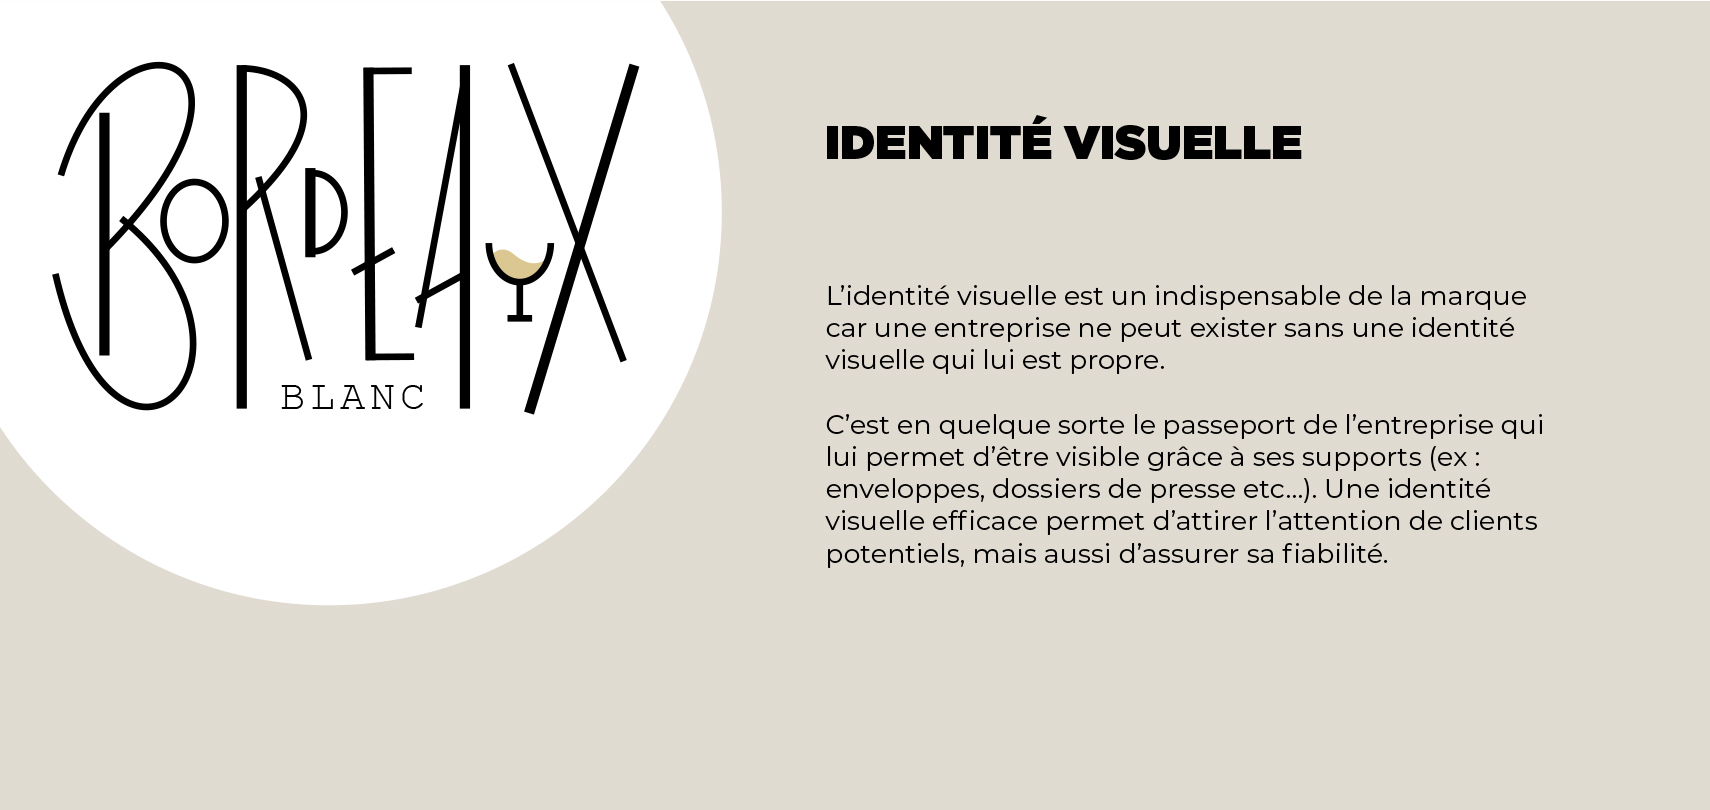
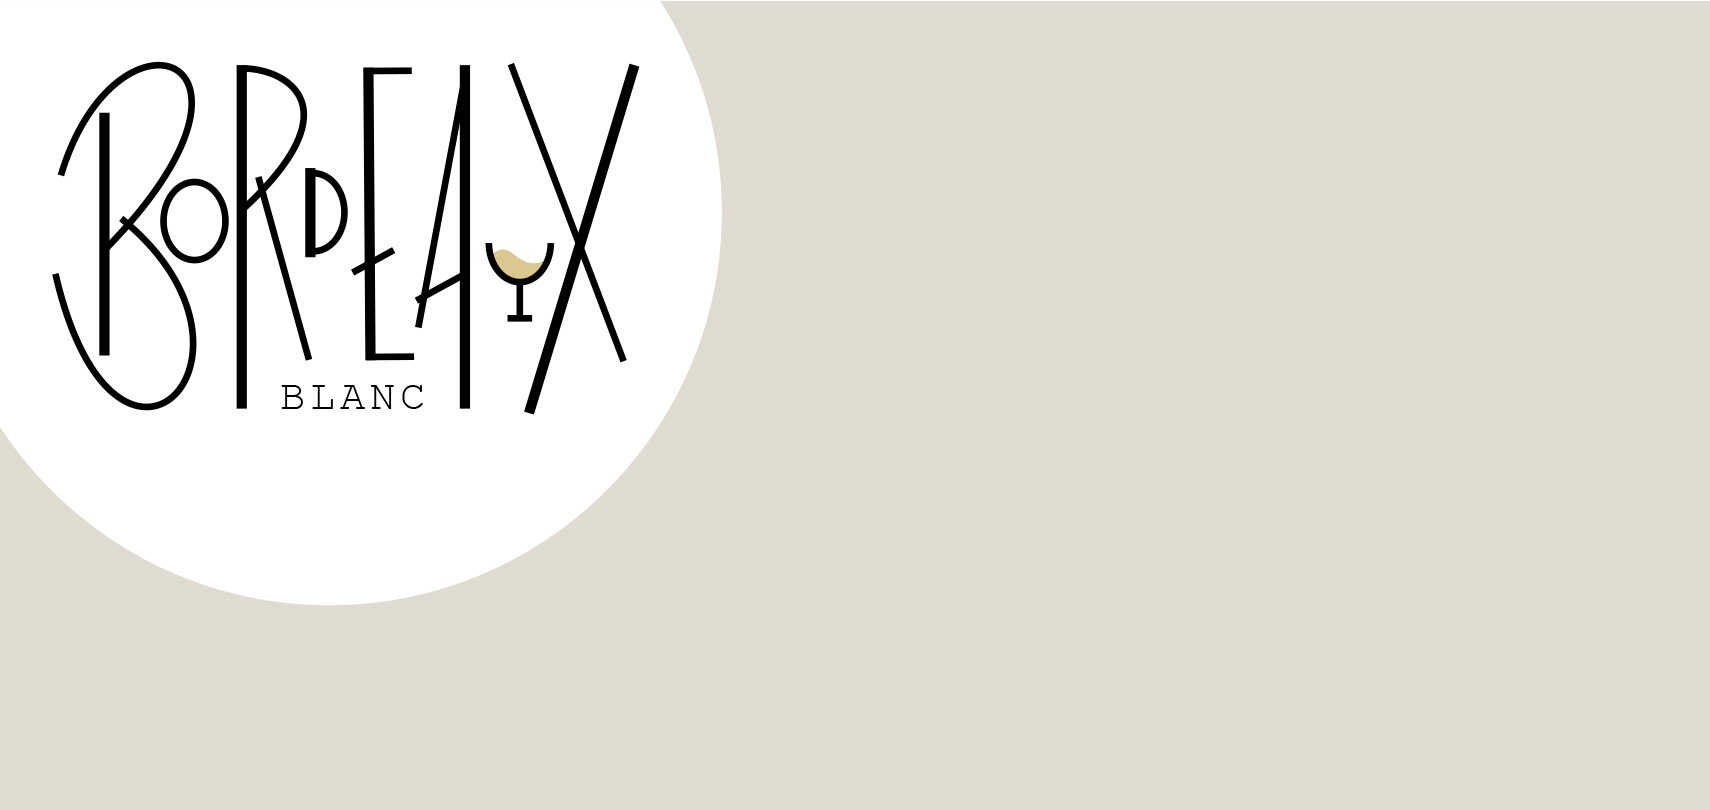
Added "cv" and "portfolio" sections

Changed region(s): [[0.4649, 0.4938, 0.8988, 0.7099], [0.4959, 0.3395, 0.8988, 0.463], [0.4649, 0.1543, 0.7749, 0.216]]

diff --git a/css/typo.css b/css/typo.css
@@ -1,16 +1,16 @@
 @import url('https://fonts.googleapis.com/css?family=Goudy+Bookletter+1911|Montserrat:200,400,700|Zilla+Slab:300,400&display=swap');
 
-/* Polices utilisés dans le header */
+
 @import url('https://fonts.googleapis.com/css?family=Bree+Serif&display=swap');
-/* Polices utilisés dans fable01 */
+
 @import url('https://fonts.googleapis.com/css?family=Lato:400,700|Playfair+Display:900&display=swap');
-/* Polices utilisés dans fable02 */
+
 @import url('https://fonts.googleapis.com/css?family=Raleway|Vast+Shadow&display=swap');
-/* Polices utilisés dans fable03 */
+
 @import url('https://fonts.googleapis.com/css?family=BioRhyme:400,700|Space+Mono:400,400i&display=swap');
-/* Polices utilisés dans fable04 */
+
 @import url('https://fonts.googleapis.com/css?family=Fascinate+Inline|Righteous&display=swap');
-/* Polices utilisés dans footer sont les mêmes que dans header */
+
 
 .header-content {
   font-family: 'Zilla Slab', serif;
@@ -26,86 +26,69 @@ header p {
   font-size: 2.25em;
 }
 
-/* Styles partagés par tous les éléments ayant la même class */
 
-.fable-moral {
-  font-size: 3.052em;
-  margin: 2.75rem 0 1rem;
-}
 
-/* Styles utilisés dans fable01 */
-
-#fable01 h2 {
+#identitevisuelle h2 {
   font-size: 3.052em;
   margin: 2.75rem 0 2.75rem 0;
   font-family: 'Montserrat', serif;
   font-weight: 800;
   line-height: 1.15;
-  text-align: right;
-  color: white;
+  text-align: center;
+  color: black;
   padding-right: 30%;
   padding-top: 10%;
 }
 
-#fable01 p {
+#identitevisuelle p {
     font-size: 15px;
     font-family: 'Montserrat', serif;
-     color: white;
+    color: black;
+    padding-top: 10%
 }
 
-#fable01 .fable-moral {
-    font-family: 'Montserrat', serif;
-    font-size: 25px;
-    text-align: center;
-    font-weight: 800;
-    color : black;
-}
 
-/* Styles utilisés dans fable02 */
 
-#fable02 {
-  font-family: 'Raleway', sans-serif;
-  text-align: center;
-}
-
-#fable02 h2 {
+#packaging h2 {
   font-size: 3.052em;
   margin: 2.75rem 0 2.75rem 0;
   font-family: 'Montserrat', serif;
   font-weight: 800;
   line-height: 1.15;
   text-align: center;
-  color: #ffff
+  color: black;
+  padding-right: 30%;
+  padding-top: 10%;
 }
 
-#fable02 .fable-moral {
+#packaging p {
+    font-size: 15px;
     font-family: 'Montserrat', serif;
-    text-align: center;
-    font-weight: 800;
+    color: black;
+    padding-top: 10%
 }
 
-/* Styles utilisés dans fable03 */
 
-#fable03 {
+
+
+
+#illustration h2 {
+  font-size: 3.052em;
+  margin: 2.75rem 0 2.75rem 0;
   font-family: 'Montserrat', serif;
-  padding-top: 5%;
-}
-
-#fable03 h2 {
-  font-family: 'Goudy Bookletter 1911', serif;
-  margin: 0;
-  font-size: 2em;
-  line-height: 0.75;
+  font-weight: 800;
+  line-height: 1.15;
   text-align: center;
-  padding-top: 5%;
-  padding-left: 5%;
+  color: black;
+  padding-right: 70%;
+  padding-top: 10%;
 }
 
-#fable03 .fable-moral {
+#illustration p {
+    font-size: 15px;
     font-family: 'Montserrat', serif;
-    font-size: 1.5em;
-    text-align: center;
-    font-weight: 600;
+    color: black;
+    padding-top: 10%
 }
 
 

diff --git a/css/master.css b/css/master.css
@@ -8,11 +8,11 @@ body {
 }
 
 .header-content {
-  min-height: 45vh;
+  min-height: 41vh;
   padding: 1em;
   background: #efefef
   color: white;
-/* display en flexbox pour centrer */
+
   display: flex;
   justify-content: center;
   align-items: center;
@@ -22,37 +22,30 @@ section {
     min-height: 10vh;
 }
 
-/* Styles utilisés dans fable01 */
+
 
 #identitevisuelle {
-  min-height: 98vh;
+  min-height: 93vh;
   background: url('images/projetportfolio-2.jpg') top center no-repeat;
   overflow: hidden;
   padding-left: 50%;
 }
 
-#identitevisuelle .main-content {
-  display: flex;
-  align-items: right;
-  padding: 10px 50px 20px;
-}
+
 
 #identitevisuelle .text-content {
-  display : flex;
-  align-items: center;
-  justify-content: center;
-  padding: 10px 50px 20px;
-}
+  padding: 80px;
+  margin-top : 0;
+  margin-right : auto;
+  margin-bottom : 0;
+  margin-left : auto;
 
-#identitevisuelle .fable-moral {
-  display : flex;
-  align-items: center;
-  justify-content: center;
-  padding: 10px 50px 20px;
+  max-width: 620px;
 }
 
 
-/*  max-width: 620px; */
+
+
   flex-basis: 420px;
   flex-grow: 1;
   flex-shrink: 1;
@@ -63,17 +56,16 @@ section {
   border : 4px solid #000;
 }
 
-/* Styles utilisés dans fable02 */
+
 
 #packaging {
-  min-height: 97vh;
+  min-height: 93vh;
   background: #efefef  url('images/projetportfolio-3.jpg') top center no-repeat;
   overflow: hidden;
   padding-left: 50%;
 }
 
 #packaging .text-content {
-  background: rgba(255, 255, 255, 0.5);
   padding: 80px;
   margin-top : 0;
   margin-right : auto;
@@ -83,15 +75,7 @@ section {
   max-width: 620px;
 }
 
-#packaging .fable-moral {
-  display : flex;
-  align-items: center;
-  justify-content: center;
-  padding-bottom: 10%;
-}
 
-
-/* Styles utilisés dans fable03 */
 
 #illustration {
   min-height: 86vh;
@@ -103,14 +87,54 @@ section {
 
 #illustration .main-content {
     max-width: 480px;
-    padding-top: 10%;
+    padding-top: 5%;
+    padding-left: 60%;
 }
+
 
 #illustration p {
   background: #efefef
   color: #fff;
 }
 
+
+#cv {
+  background: url('images/cv-1.jpg')top center no-repeat;
+}
+
+.cv-content {
+  min-height: 200vh;
+  padding: 1em;
+  background: #efefef
+  color: white;
+
+  display: flex;
+  justify-content: center;
+  align-items: center;
+}
+
+section {
+    min-height: 10vh;
+}
+
+#portfolio {
+  background: url('images/cv-2.jpg')top center no-repeat;
+}
+
+.portfolio-content {
+  min-height: 170vh;
+  padding: 1em;
+  background: #efefef
+  color: white;
+
+  display: flex;
+  justify-content: center;
+  align-items: center;
+}
+
+section {
+    min-height: 10vh;
+}
 
 .emphasised {
   font-size: 1.5em;

diff --git a/index.html b/index.html
@@ -8,44 +8,74 @@
   </head>
   <body>
 
-<!-- Header -->
+
 <section id="header">
   <div class="header-content">
 
   </div>
 </section>
 
-<!-- SECTION avec identifiant fable01 -->
+
 <section id="identitevisuelle">
 
 
-  <div class="main-content">
+
     <div class="text-content">
 
+<h2>IDENTITÉ VISUELLE</h2>
+
+<p>L’identité visuelle est un indispensable de la marque car une entreprise ne peut exister sans une identité visuelle qui lui est propre.
+
+C’est en quelque sorte le passeport de l’entreprise qui lui permet d’être visible grâce à ses supports (ex : enveloppes, dossiers de presse etc…). Une identité visuelle efficace permet d’attirer l’attention de clients potentiels, mais aussi d’assurer sa fiabilité.</p>
 
 
       </div>
 
-  </div>
+
 </section>
 
-<!-- SECTION avec identifiant fable01 -->
+
 <section id="packaging">
 
 
 <div class="text-content">
 
+<h2>PACKAGING</h2>
+
+<p>Le packaging désigne normalement l'emballage extérieur ou le conditionnement visible du produit.
+La notion de packaging sous entend la prise en compte de la fonction de communication, de vente et de séduction exercée par l'emballage dans le lieu de vente et éventuellement après l'achat.
+Elle englobe également l'optimisation de l'expérience utilisateur à travers la prise en compte de contraintes ergonomiques (praticité d'usage).</p>
+
   </div>
 </section>
 
-<!-- SECTION avec identifiant fable01 -->
+
 <section id="illustration">
 
 
   <div class="main-content">
 
+<h2>ILLUSTRATION</h2>
+
+<p>Le packaging désigne normalement l'emballage extérieur ou le conditionnement visible du produit.
+La notion de packaging sous entend la prise en compte de la fonction de communication, de vente et de séduction exercée par l'emballage dans le lieu de vente et éventuellement après l'achat.
+Elle englobe également l'optimisation de l'expérience utilisateur à travers la prise en compte de contraintes ergonomiques (praticité d'usage).</p>
+
   </div>
 </section>
+
+<section id="cv">
+  <div class="cv-content">
+
+  </div>
+</section>
+
+<section id="portfolio">
+  <div class="portfolio-content">
+
+  </div>
+</section>
+
 
   </ul>
 </footer>
